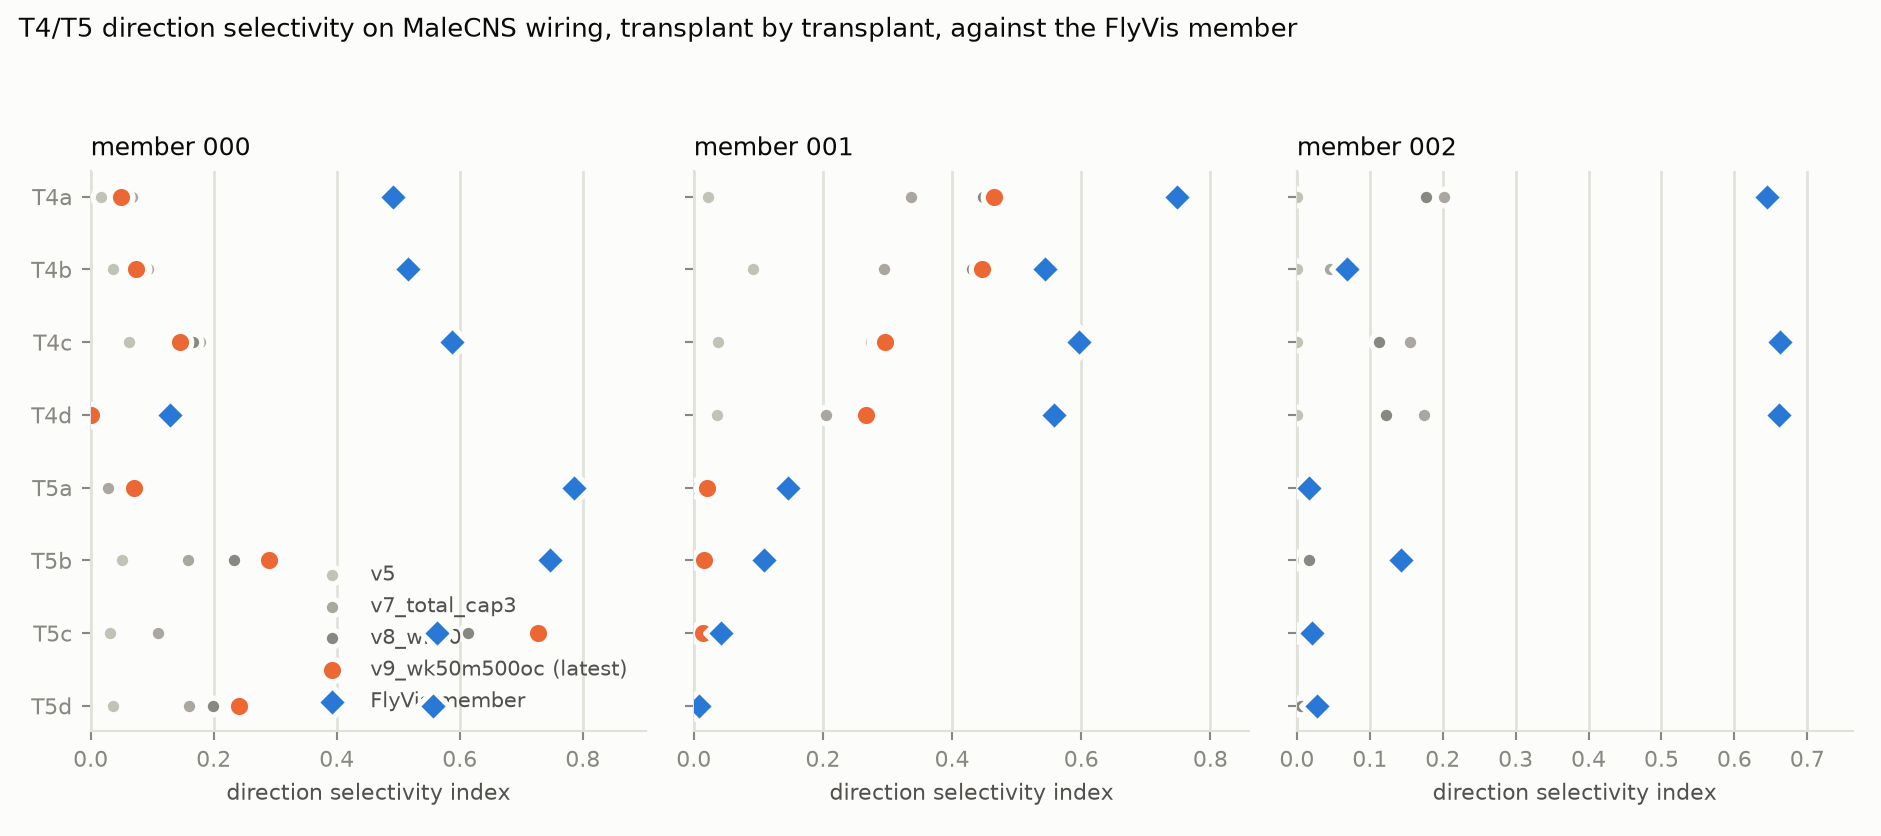
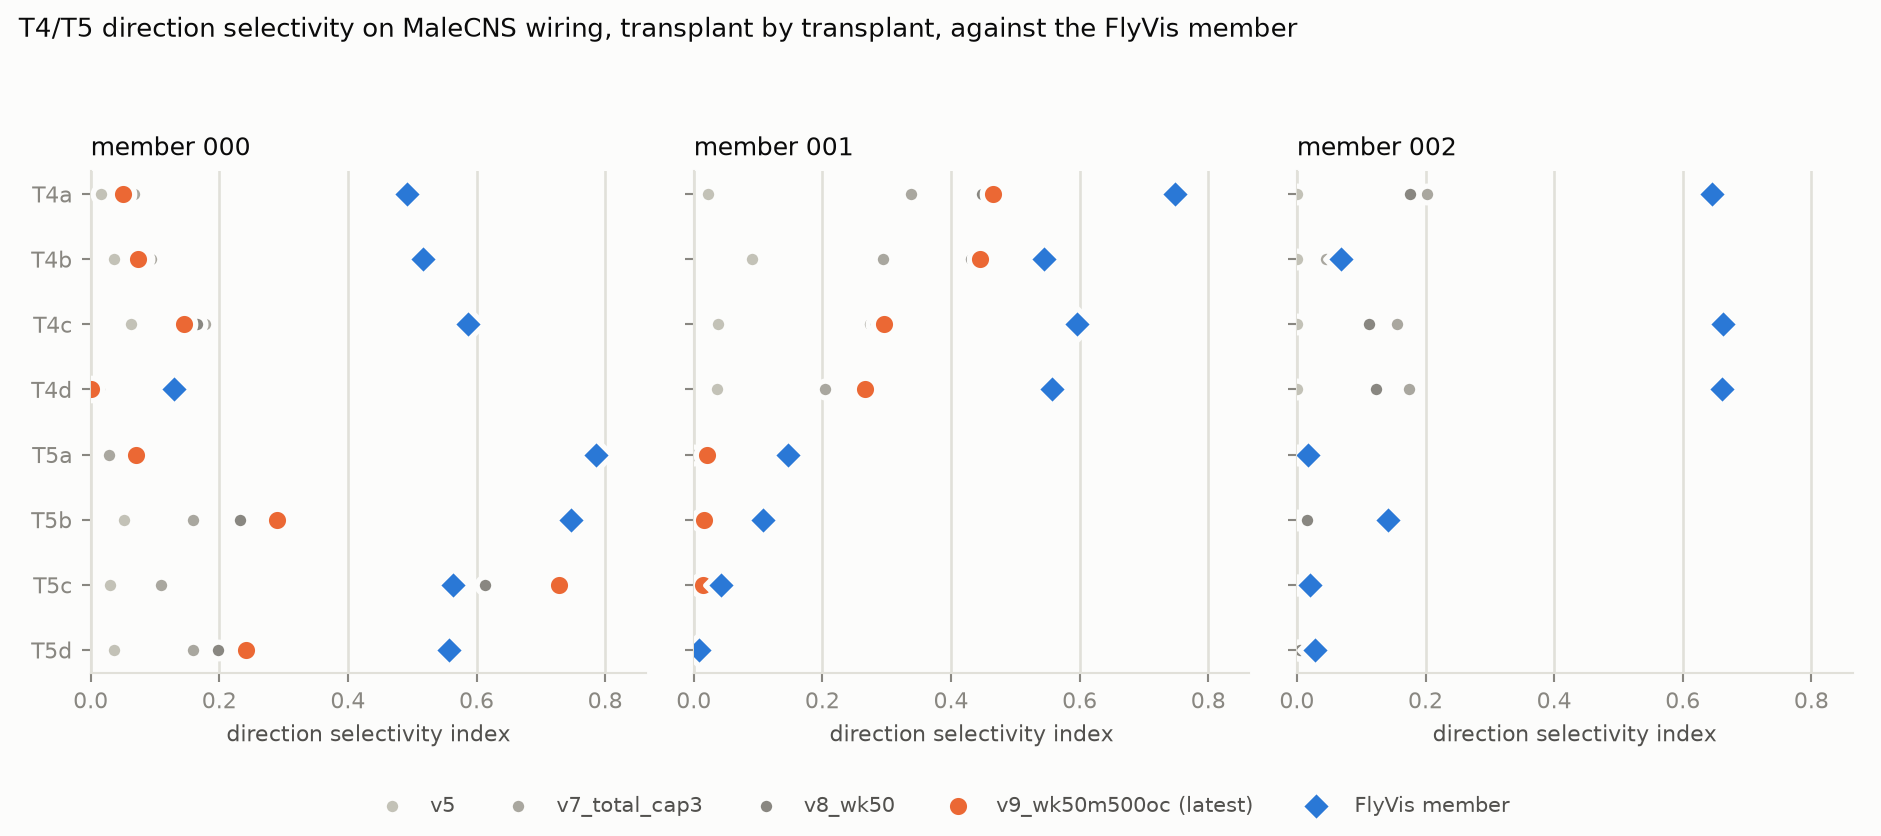
compare_runs: legend below the panels, one x scale across members

diff --git a/flydream/model/compare_runs.py b/flydream/model/compare_runs.py
@@ -97,13 +97,16 @@ def figure(t: pd.DataFrame, runs_short: list[str], latest: str, path, title: str
         ax.set_yticks(y)
         ax.set_yticklabels(SUBTYPES, color=INK2, fontsize=9)
         ax.tick_params(colors=MUTED, labelsize=8.5)
-        ax.set_xlim(0, max(0.05, float(np.nanmax(d.dsi)) * 1.15))
+        ax.set_xlim(0, max(0.05, float(np.nanmax(t.dsi)) * 1.1))     # one scale for every member
         ax.set_title(f"member {m:03d}", color=INK, fontsize=9.5, loc="left")
         ax.set_xlabel("direction selectivity index", color=INK2, fontsize=8.5)
         ax.invert_yaxis()
-    axes[0].legend(frameon=False, fontsize=8, labelcolor=INK2, loc="lower right")
+    # the legend below the panels, never on the data
+    handles, labels = axes[0].get_legend_handles_labels()
+    fig.legend(handles, labels, frameon=False, fontsize=8, labelcolor=INK2, loc="lower center",
+               ncol=len(labels), bbox_to_anchor=(0.5, 0.0))
     fig.suptitle(title, color=INK, fontsize=10, x=0.01, ha="left")
-    fig.tight_layout(rect=(0, 0, 1, 0.94))
+    fig.tight_layout(rect=(0, 0.07, 1, 0.94))
     path.parent.mkdir(parents=True, exist_ok=True)
     fig.savefig(path, dpi=190, facecolor=SURFACE)
     plt.close(fig)
